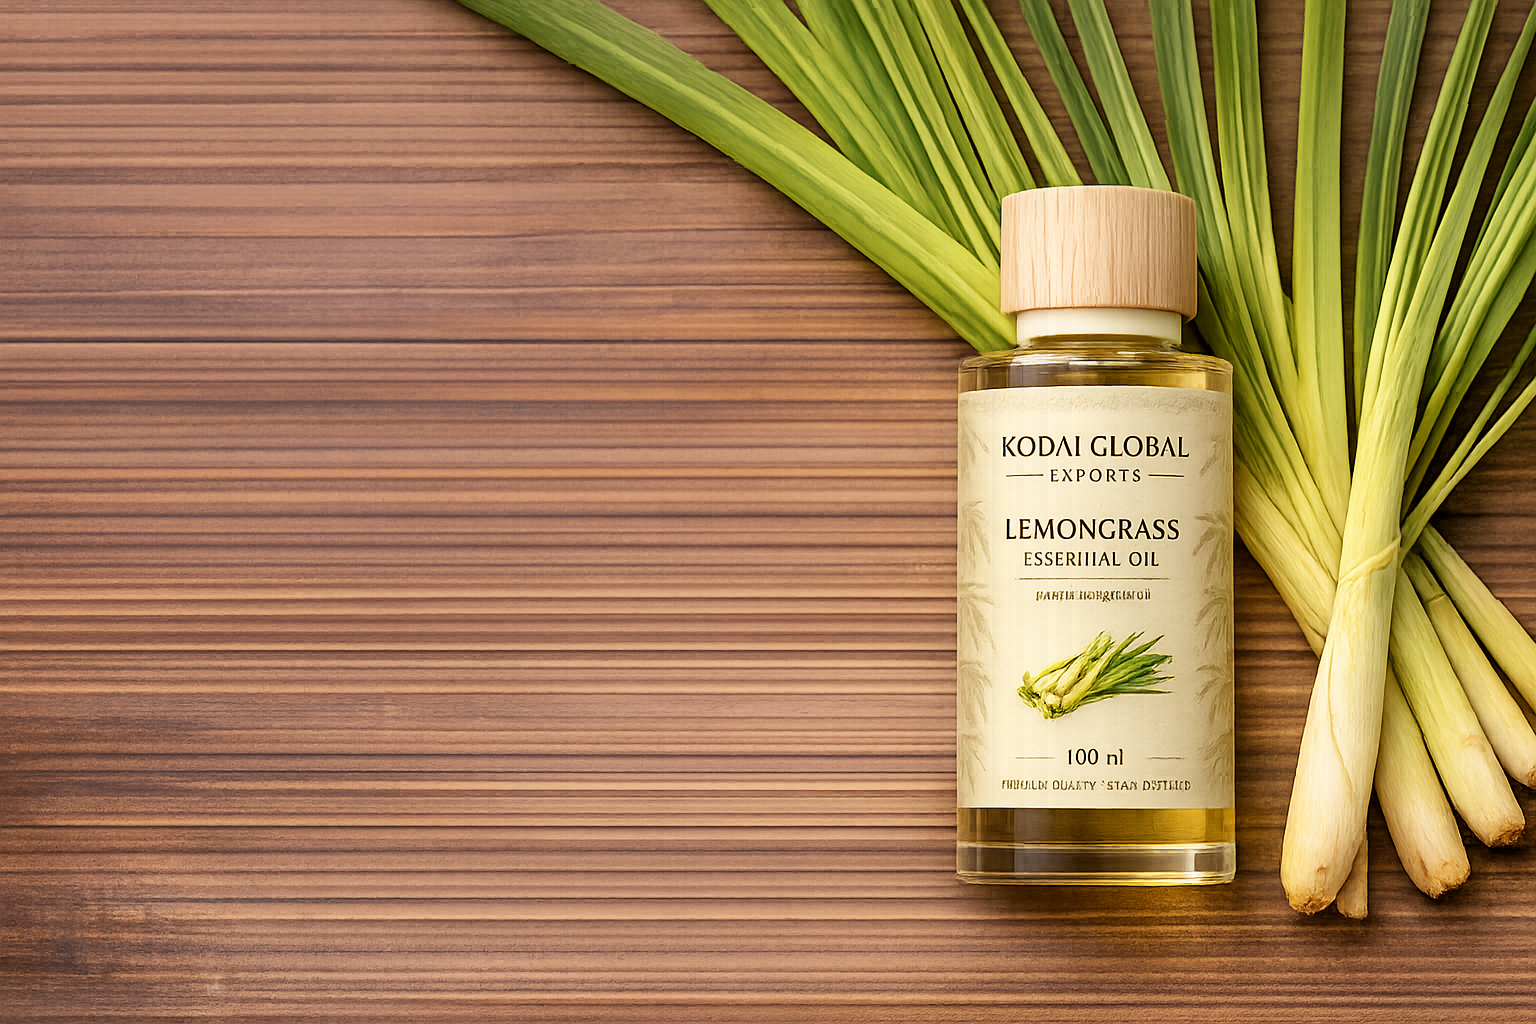
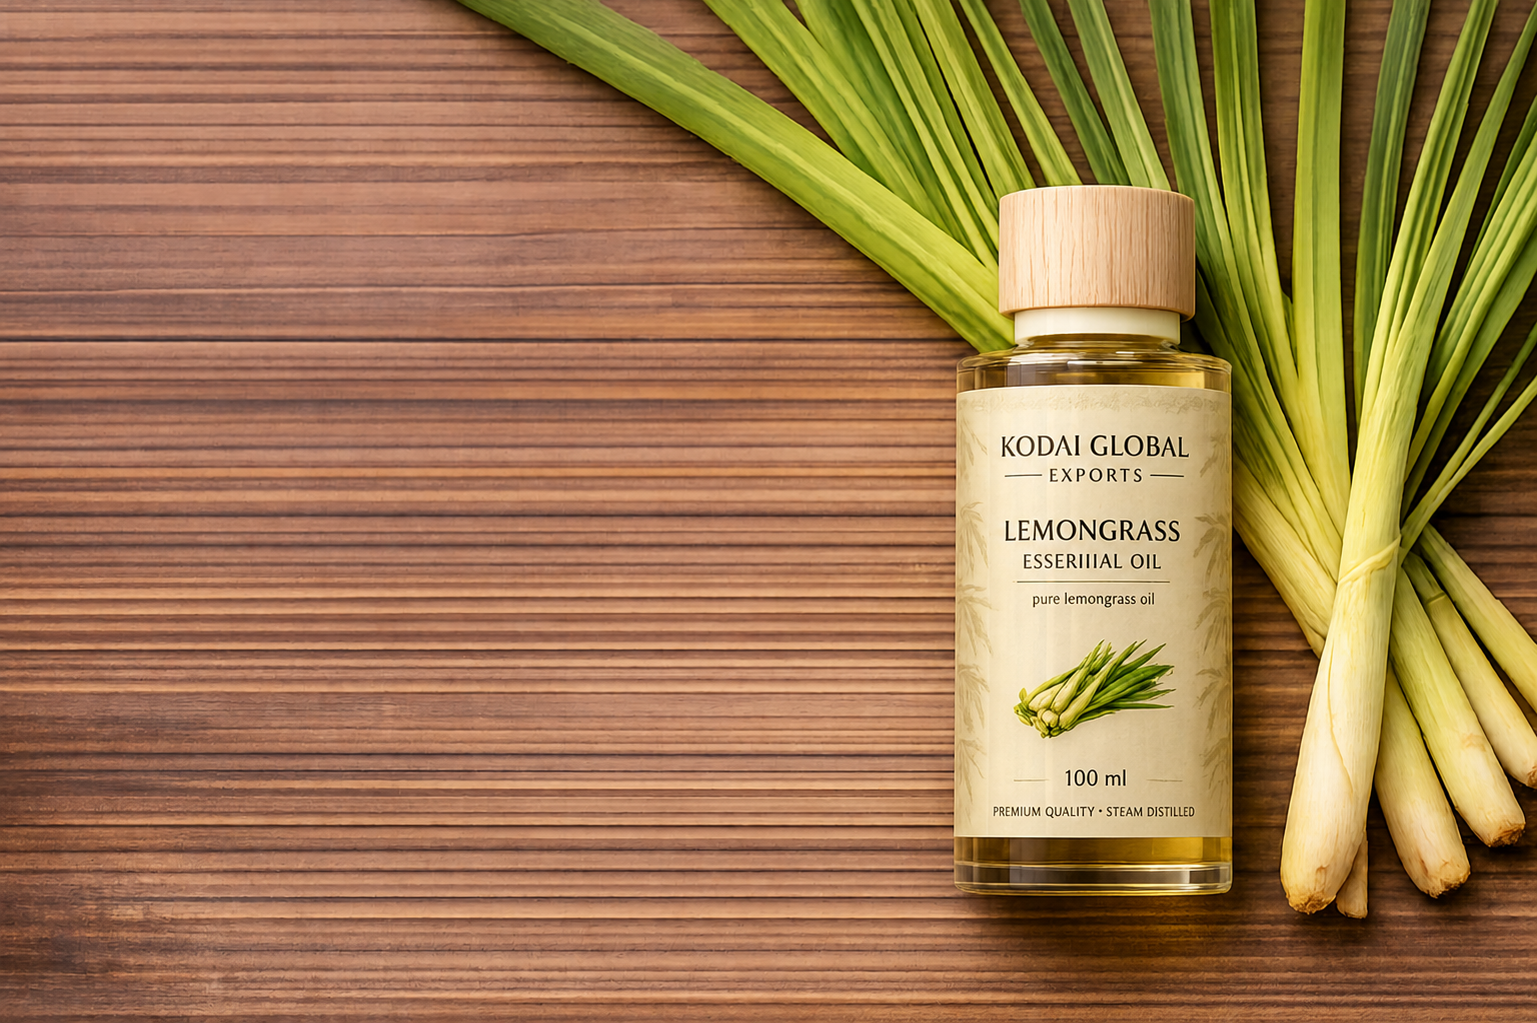
image changes

diff --git a/components/shared/HeroBackground.tsx b/components/shared/HeroBackground.tsx
@@ -55,7 +55,7 @@ export const HeroBackground = ({
         onLoad={() => setIsLoaded(true)}
       />
       {/* Premium overlay: Clean, subtle gradients for text readability */}
-      <div className="absolute inset-0 bg-black/25 sm:bg-black/25" />
+      <div className="absolute inset-0 bg-black/70 md:bg-black/25" />
       <div className="absolute inset-0 bg-gradient-to-t from-black/10 via-transparent to-black/10" />
     </div>
   );